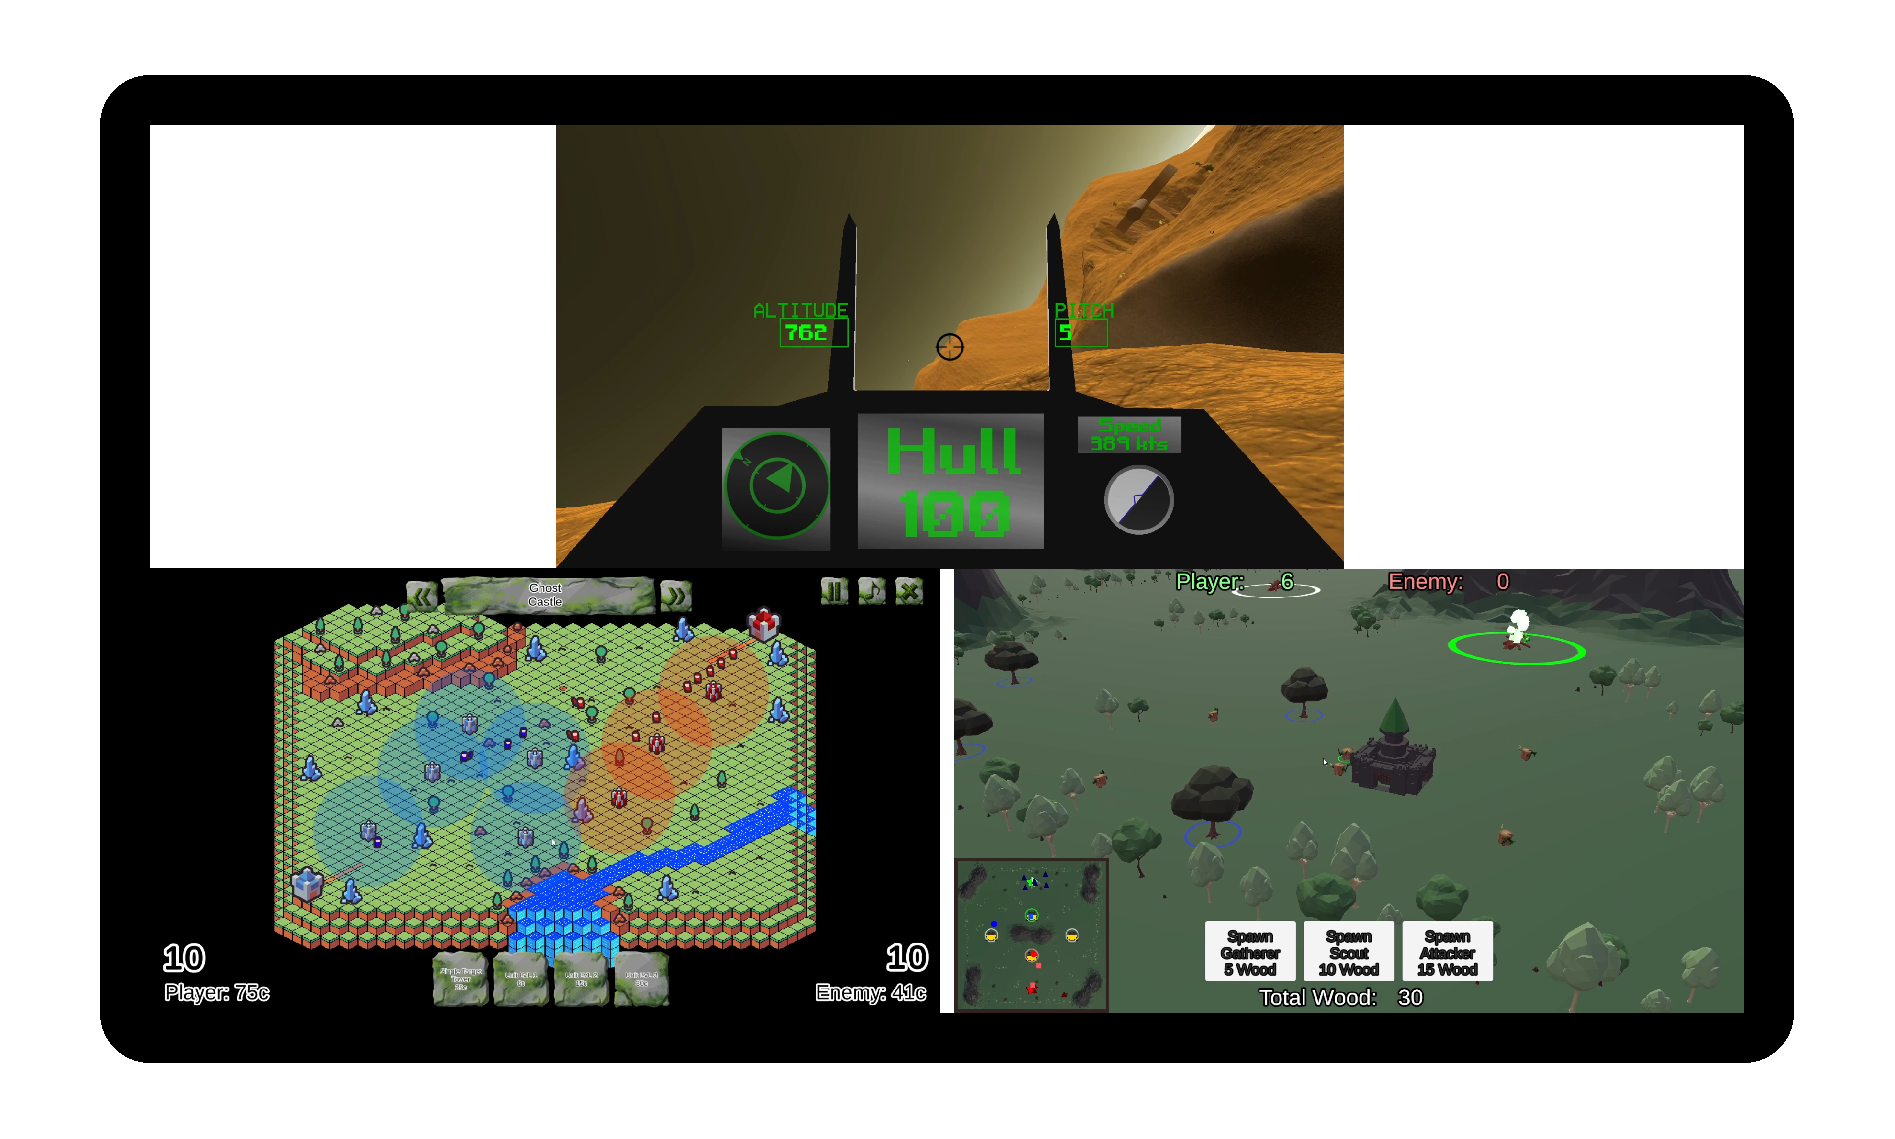
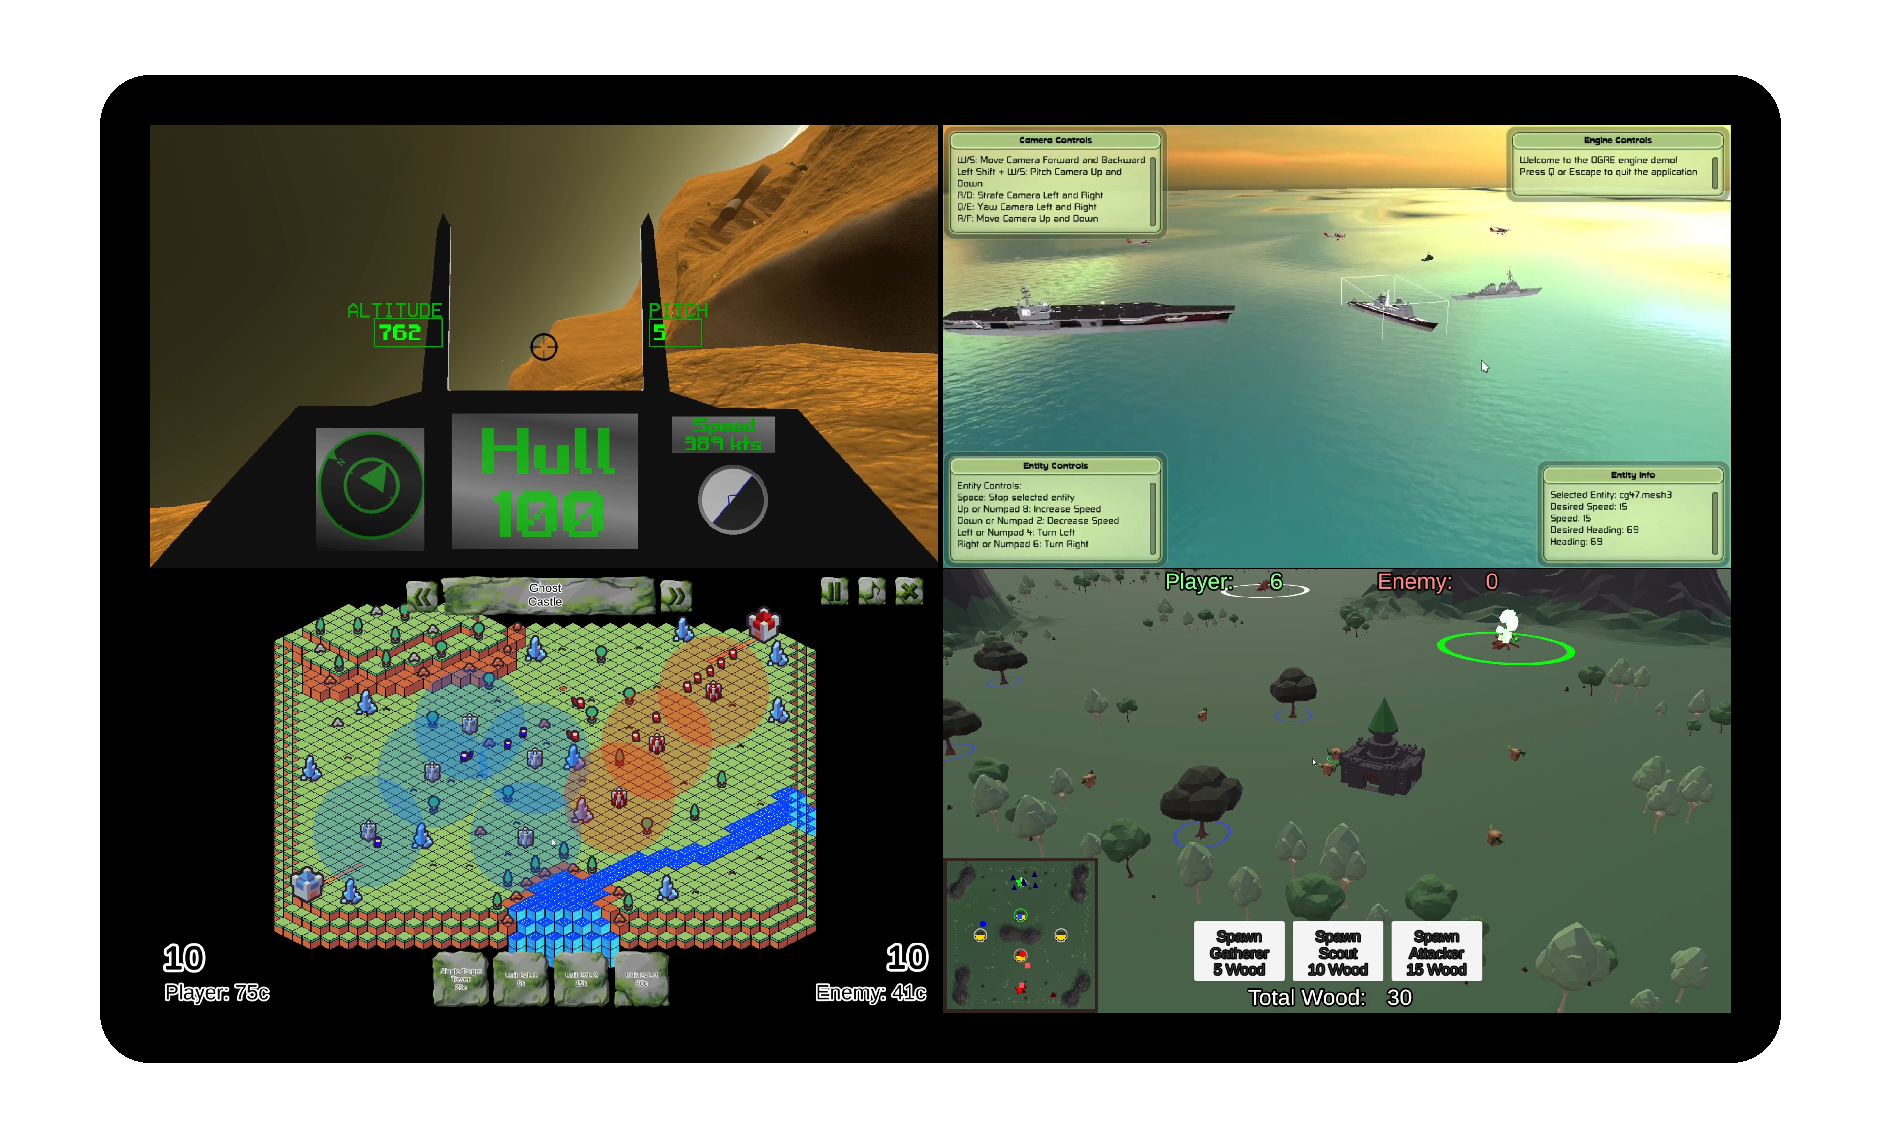
Added OGRE Engine to University projects

diff --git a/projects-university.html b/projects-university.html
@@ -128,14 +128,40 @@
                   alt="A demonstration video of the desert stage."
                   class="project-details__showcase-img"/>
               </div>
-            </div>
-            <div class="project-details__links">
+			  <div class="project-details__links">
               <a
                 href="https://github.com/MarkDGraham/First-Person-Flight-Shooter"
                 class="btn btn--med btn--theme-inv project-details__links-btn"
                 target="_blank"
                 >Source Code</a
               >
+            </div>
+            </div>
+            
+			<div class="project-details__desc">
+              <h3 class="project-details__content-title">OGRE Game Engine Demo</h3>
+              <p class="project-details__desc-para">
+                My mid-project for CS 381- Game Engine Architecture in the Spring 2022 semester. A basic game engine framework
+				built in OGRE (Object-oriented Graphics Rendering Engine). It features simple oriented physics, multiple selectable entities, 
+				and camera controls.
+              </p>
+              <div class="project-details__showcase-img-cont">
+                <img
+                src="./assets/gif/OGREEngine.gif"
+                alt="A demonstration of the OGRE engine, showing camera movement, entity selection, and movement."
+                class="project-details__showcase-img"/>
+              </div>
+			    <p class="project-details__desc-para">
+                I rebuilt this project in July 2025, adding UI Text boxes showing the controls and information of the current selected entity.
+              </p>
+              <div class="project-details__links">
+                <a
+                  href="https://github.com/John-Busse/OGRE-Projects/tree/main/Basic-Engine-Demo"
+                	class="btn btn--med btn--theme-inv project-details__links-btn"
+                	target="_blank"
+                	>Source Code</a
+             	>
+              </div>
             </div>
             <div class="project-details__desc">
               <h3 class="project-details__content-title">Iso Defenders</h3>
